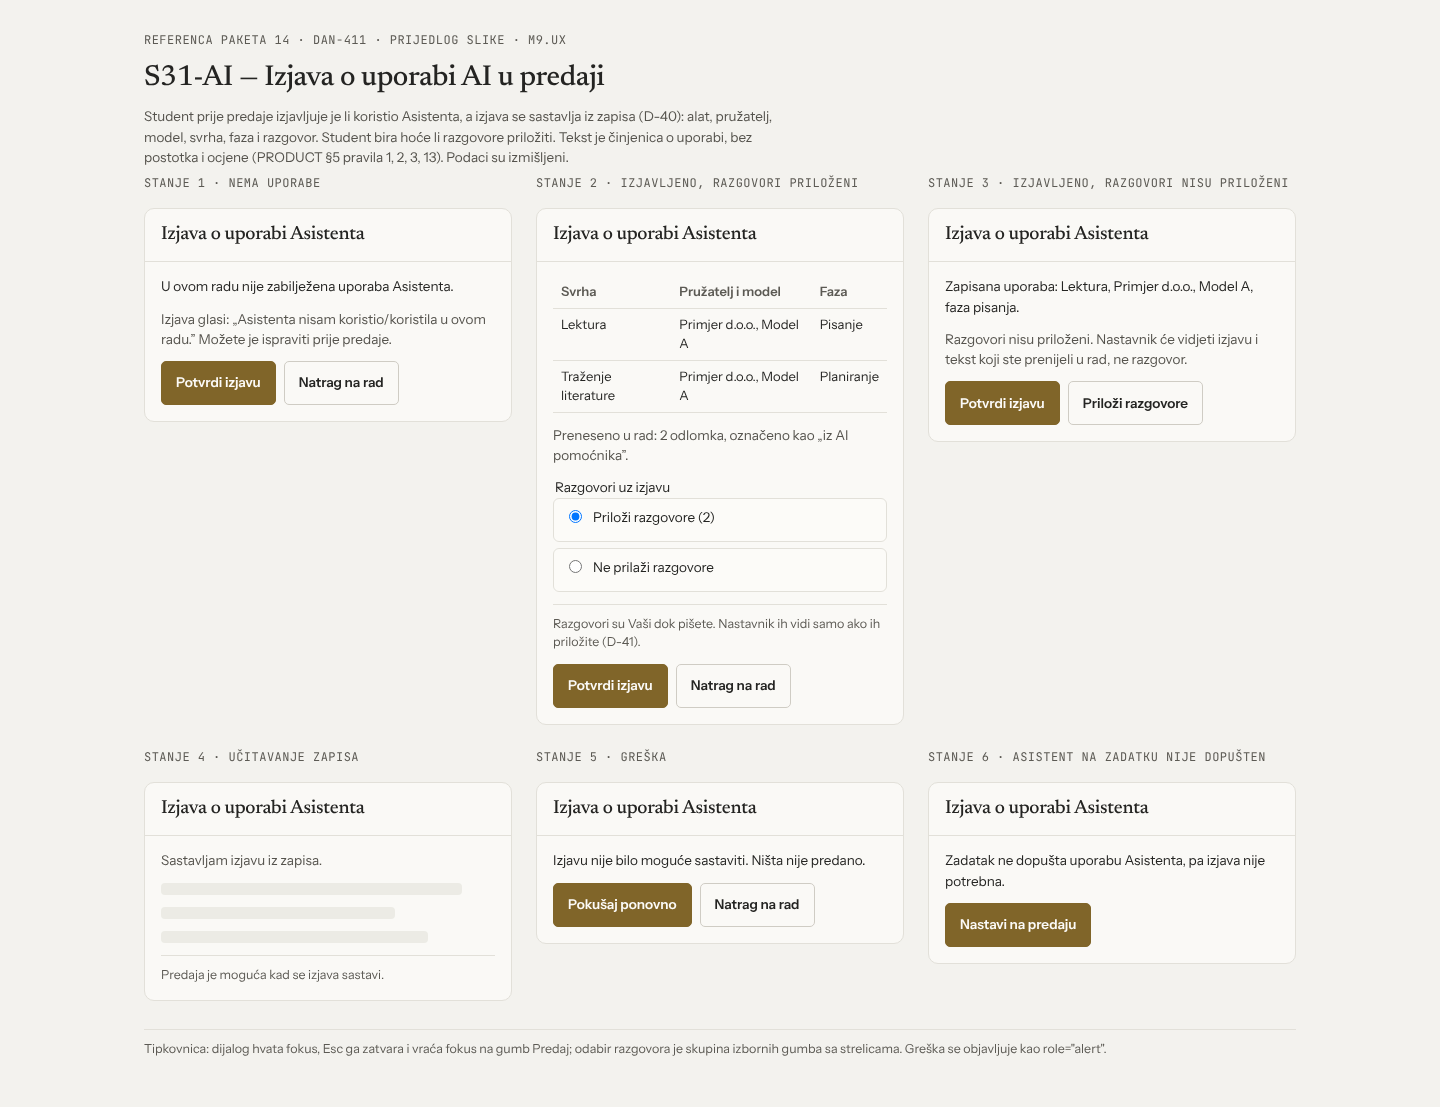
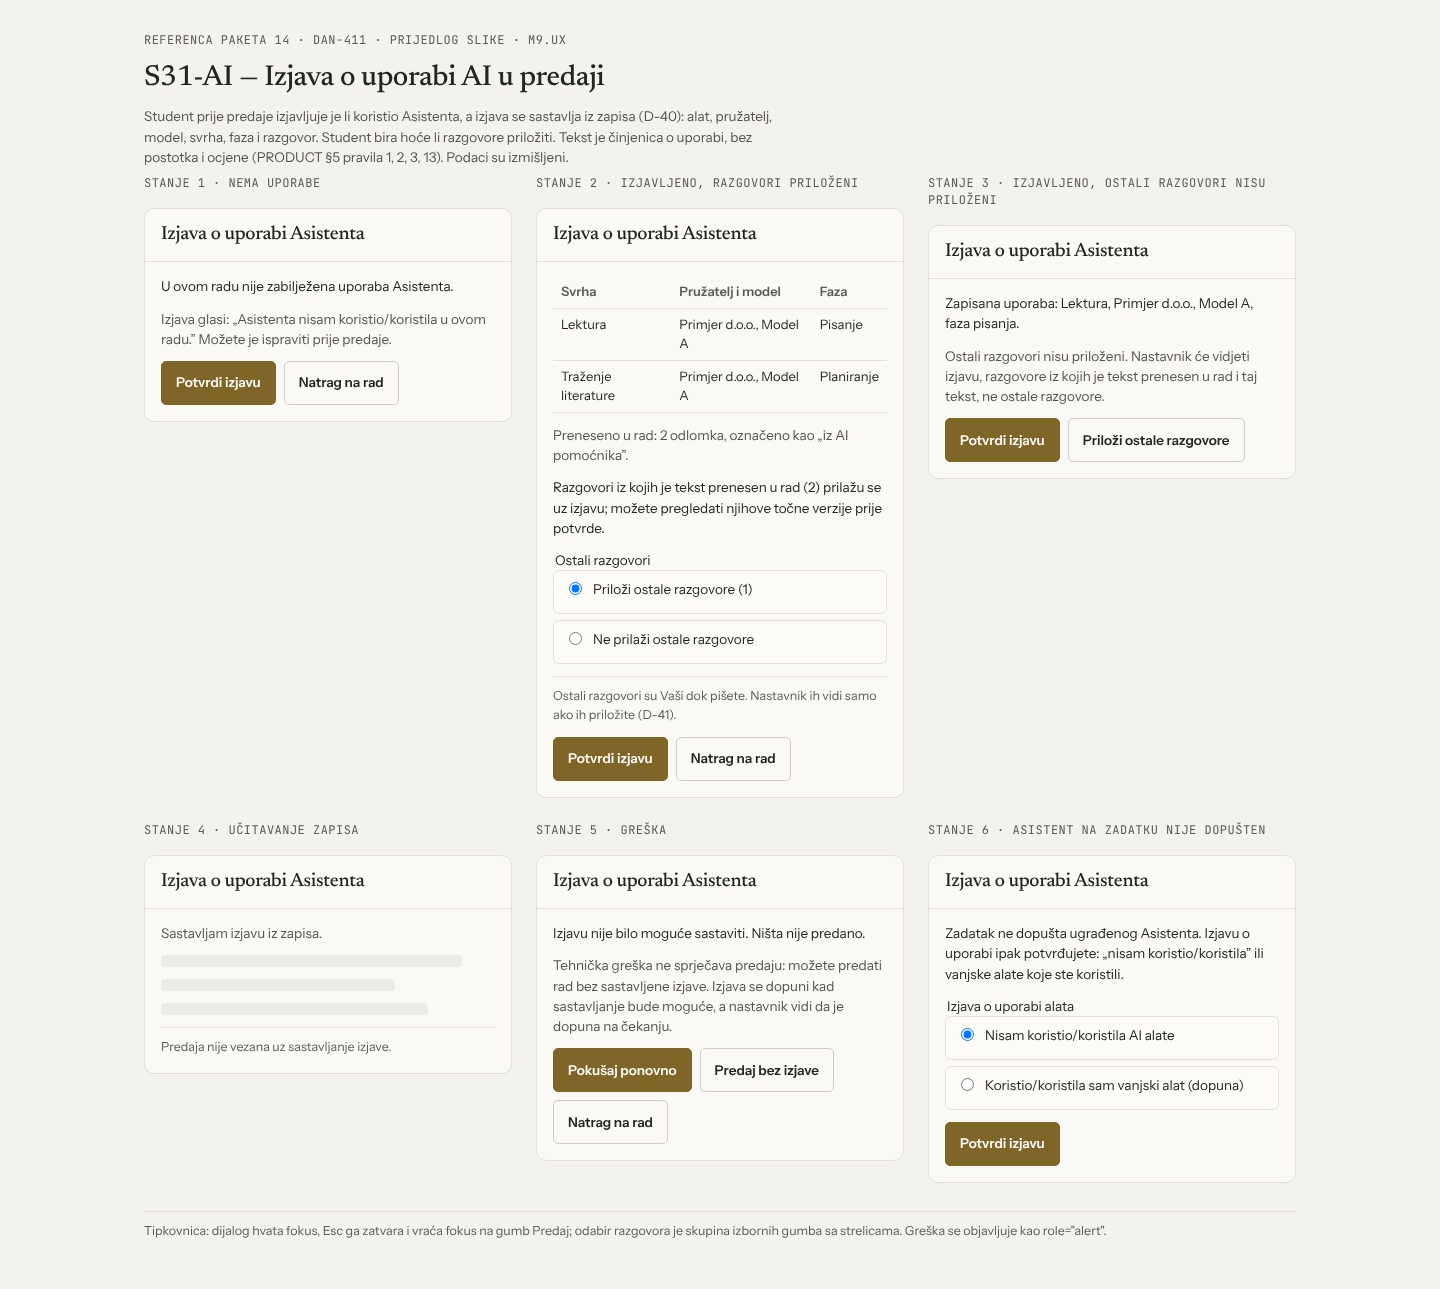
fix: S31-AI keeps mandatory conversations, declaration and fallback submit (DAN-411)
Claude-Session: https://claude.ai/code/session_01N1HowT8egL4JZR2XTBXRV4

diff --git a/docs/design/ductura/m9-reference-b/s31-ai.html b/docs/design/ductura/m9-reference-b/s31-ai.html
@@ -35,24 +35,25 @@
           <tbody><tr><td>Lektura</td><td>Primjer d.o.o., Model A</td><td>Pisanje</td></tr>
           <tr><td>Traženje literature</td><td>Primjer d.o.o., Model A</td><td>Planiranje</td></tr></tbody></table>
         <p class="note">Preneseno u rad: 2 odlomka, označeno kao „iz AI pomoćnika”.</p>
-        <fieldset class="radio"><legend>Razgovori uz izjavu</legend>
-          <label><input type="radio" name="r2" checked> Priloži razgovore (2)</label>
-          <label><input type="radio" name="r2"> Ne prilaži razgovore</label>
+        <p>Razgovori iz kojih je tekst prenesen u rad (2) prilažu se uz izjavu; možete pregledati njihove točne verzije prije potvrde.</p>
+        <fieldset class="radio"><legend>Ostali razgovori</legend>
+          <label><input type="radio" name="r2" checked> Priloži ostale razgovore (1)</label>
+          <label><input type="radio" name="r2"> Ne prilaži ostale razgovore</label>
         </fieldset>
-        <p class="foot">Razgovori su Vaši dok pišete. Nastavnik ih vidi samo ako ih priložite (D-41).</p>
+        <p class="foot">Ostali razgovori su Vaši dok pišete. Nastavnik ih vidi samo ako ih priložite (D-41).</p>
         <div class="acts"><button class="btn" type="button">Potvrdi izjavu</button><button class="btn secondary" type="button">Natrag na rad</button></div>
       </div>
     </div>
   </section>
 
   <section class="variant" aria-labelledby="v3">
-    <div class="ref-tag" id="v3">Stanje 3 · izjavljeno, razgovori nisu priloženi</div>
+    <div class="ref-tag" id="v3">Stanje 3 · izjavljeno, ostali razgovori nisu priloženi</div>
     <div class="panel" role="dialog" aria-labelledby="t3">
       <div class="panel-top"><h2 id="t3">Izjava o uporabi Asistenta</h2></div>
       <div class="panel-body">
         <p>Zapisana uporaba: Lektura, Primjer d.o.o., Model A, faza pisanja.</p>
-        <p class="note">Razgovori nisu priloženi. Nastavnik će vidjeti izjavu i tekst koji ste prenijeli u rad, ne razgovor.</p>
-        <div class="acts"><button class="btn" type="button">Potvrdi izjavu</button><button class="btn secondary" type="button">Priloži razgovore</button></div>
+        <p class="note">Ostali razgovori nisu priloženi. Nastavnik će vidjeti izjavu, razgovore iz kojih je tekst prenesen u rad i taj tekst, ne ostale razgovore.</p>
+        <div class="acts"><button class="btn" type="button">Potvrdi izjavu</button><button class="btn secondary" type="button">Priloži ostale razgovore</button></div>
       </div>
     </div>
   </section>
@@ -64,7 +65,7 @@
       <div class="panel-body">
         <p class="note">Sastavljam izjavu iz zapisa.</p>
         <div class="skel" style="width:90%"></div><div class="skel" style="width:70%"></div><div class="skel" style="width:80%"></div>
-        <p class="foot">Predaja je moguća kad se izjava sastavi.</p>
+        <p class="foot">Predaja nije vezana uz sastavljanje izjave.</p>
       </div>
     </div>
   </section>
@@ -75,7 +76,8 @@
       <div class="panel-top"><h2 id="t5">Izjava o uporabi Asistenta</h2></div>
       <div class="panel-body">
         <p role="alert">Izjavu nije bilo moguće sastaviti. Ništa nije predano.</p>
-        <div class="acts"><button class="btn" type="button">Pokušaj ponovno</button><button class="btn secondary" type="button">Natrag na rad</button></div>
+        <p class="note">Tehnička greška ne sprječava predaju: možete predati rad bez sastavljene izjave. Izjava se dopuni kad sastavljanje bude moguće, a nastavnik vidi da je dopuna na čekanju.</p>
+        <div class="acts"><button class="btn" type="button">Pokušaj ponovno</button><button class="btn secondary" type="button">Predaj bez izjave</button><button class="btn secondary" type="button">Natrag na rad</button></div>
       </div>
     </div>
   </section>
@@ -85,8 +87,12 @@
     <div class="panel" role="dialog" aria-labelledby="t6">
       <div class="panel-top"><h2 id="t6">Izjava o uporabi Asistenta</h2></div>
       <div class="panel-body">
-        <p>Zadatak ne dopušta uporabu Asistenta, pa izjava nije potrebna.</p>
-        <div class="acts"><button class="btn" type="button">Nastavi na predaju</button></div>
+        <p>Zadatak ne dopušta ugrađenog Asistenta. Izjavu o uporabi ipak potvrđujete: „nisam koristio/koristila” ili vanjske alate koje ste koristili.</p>
+        <fieldset class="radio"><legend>Izjava o uporabi alata</legend>
+          <label><input type="radio" name="r6" checked> Nisam koristio/koristila AI alate</label>
+          <label><input type="radio" name="r6"> Koristio/koristila sam vanjski alat (dopuna)</label>
+        </fieldset>
+        <div class="acts"><button class="btn" type="button">Potvrdi izjavu</button></div>
       </div>
     </div>
   </section>

diff --git a/docs/design/ductura/m9-reference-b/README.md b/docs/design/ductura/m9-reference-b/README.md
@@ -6,7 +6,7 @@ Paket 14 iz `docs/design/EKRANI.md` §4. Smjer je „papir i grafit” (D-188, `
 
 | Stranica | Stanja | Izvori |
 |---|---|---|
-| `s31-ai.html` | nema uporabe, izjavljeno s razgovorima, izjavljeno bez razgovora, učitavanje, greška, Asistent nije dopušten | D-40, D-41, PRODUCT §5 pravila 1, 2, 3, 13 |
+| `s31-ai.html` | nema uporabe, izjavljeno s razgovorima, izjavljeno bez ostalih razgovora, učitavanje, greška (predaja ostaje moguća), Asistent nije dopušten (izjava ostaje) | D-40, D-41, PRODUCT §5 pravila 1, 2, 3, 13 |
 | `n-ai-att.html` | popunjeno, razgovori nisu priloženi, nema uporabe, učitavanje, greška, prazno | D-41, D-58, PRODUCT §5 pravila 1, 2, 3, 12, 13 |
 | `a-ai-pol.html` | pregled i uređivanje, pružatelji samo za čitanje, objava nove verzije, neispravan unos, trošak nije podešen, učitavanje i greška | D-267 O5, D-270 O11 |
 
